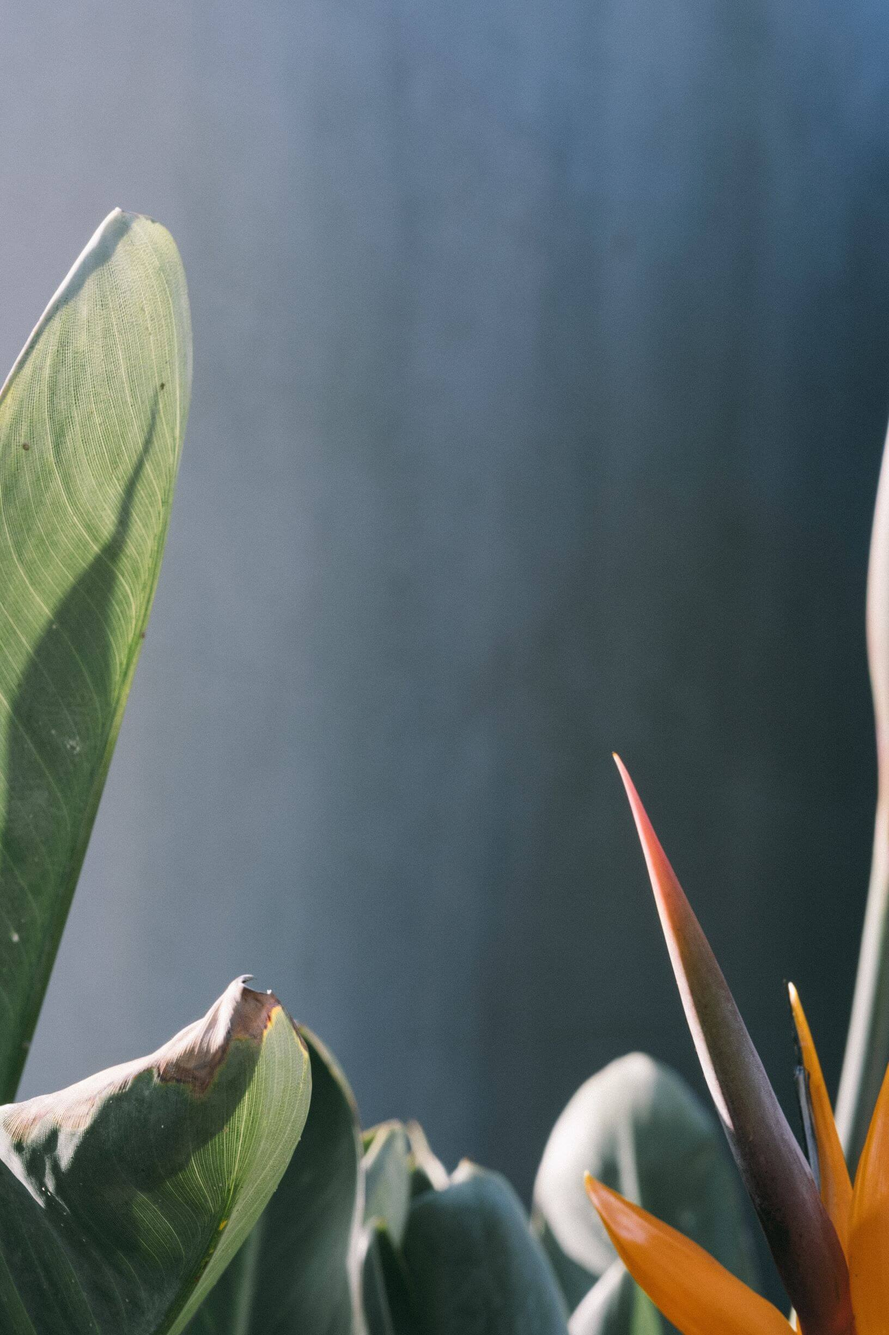
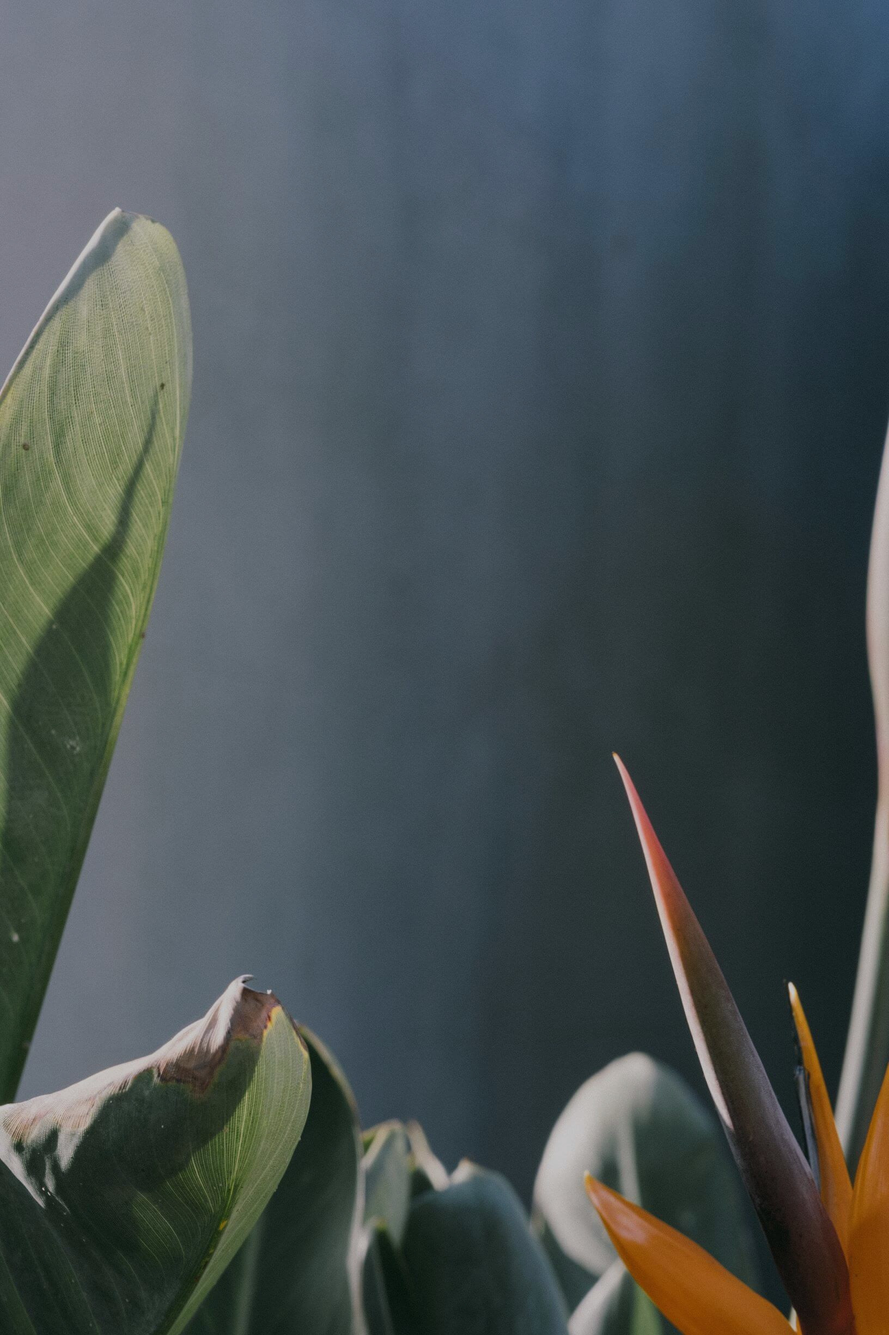
Changed pics for portfolio items, made some minor css changes

diff --git a/index.html b/index.html
@@ -26,9 +26,9 @@
       </button>
       <div class="collapse navbar-collapse" id="navbarResponsive">
         <ul class="nav navbar-nav ml-auto">
-          <li class="nav-item" role="presentation"><a class="nav-link js-scroll-trigger lang" href="#skills" name="skills">Skills</a></li>
+          <li class="nav-item" role="presentation"><a class="nav-link js-scroll-trigger lang" href="#skills" name="service">Services</a></li>
           <li class="nav-item" role="presentation"><a class="nav-link js-scroll-trigger lang" href="#about" name="about">About</a></li>
-          <li class="nav-item" role="presentation"><a class="nav-link js-scroll-trigger lang" href="#startProject" name="startProject">Write Me</a></li>
+          <li class="nav-item" role="presentation"><a class="nav-link js-scroll-trigger lang" href="#startProject" name="startProject">Work With Me</a></li>
           <li class="nav-item" role="presentation"><a class="nav-link js-scroll-trigger lang" href="#portfolio" name="portfolio">Portfolio</a></li>
           <li class="nav-item" role="presentation"><a class="nav-link js-scroll-trigger lang" href="#contact" name="contact">Contact</a></li>
           <li class="nav-item languageToggler activeLanguage" role="button"><a class="nav-link js-scroll-trigger translate" id="en">EN</a></li>
@@ -64,46 +64,39 @@
     <div class="container">
       <div class="row">
         <div class="col offset-lg-8 mx-auto text-center">
-          <h2 class="sectionHeading lang" name="skills">WHAT I DO</h2>
+          <h2 class="sectionHeading lang" name="service">WHAT I DO</h2>
           <hr class="my-4">
         </div>
         <div class="features-clean">
           <div class="container">
-            <div class="row features">
-              <div class="col-sm-6 col-lg-4 item"><i class="fab fa-html5 icon"></i>
-                <h3 class="mb-3" name="planning">HTML</h3>
-              </div>
-              <div class="col-sm-6 col-lg-4 item"><i class="fab fa-css3-alt icon"></i>
-                <h3 class="mb-3" name="design">CSS/SASS/Bootstrap</h3>
-                <p class="description">We will design a product that will reflect your personality and present your business in the most efficient way.</p>
-              </div>
-              <div class="col-sm-6 col-lg-4 item"><i class="fab fa-js-square icon"></i>
-                <h3 class="mb-3" name="development">JavaScript</h3>
-                <p class="description">Aenean tortor est, vulputate quis leo in, vehicula rhoncus lacus. Praesent aliquam in tellus eu gravida. Aliquam varius finibus est.</p>
-              </div>
-              <div class="col-sm-6 col-lg-4 item"><i class="fas fa-vector-square icon"></i>
-                <h3 class="mb-3" name="consulting">React.js</h3>
-                <p class="description">Aenean tortor est, vulputate quis leo in, vehicula rhoncus lacus. Praesent aliquam in tellus eu gravida. Aliquam varius finibus est.</p>
-              </div>
-              <div class="col-sm-6 col-lg-4 item"><i class="fab fa-github icon"></i>
-                <h3 class="mb-3" name="optimization">Git/Github/Gitlab</h3>
-                <p class="description">If you're not satisfied with your website's performance of how your app works, we are here to help</p>
-              </div>
-              <div class="col-sm-6 col-lg-4 item"><i class="far fa-file-code icon"></i>
-                <h3 class="mb-3" name="support">JSON, API</h3>
-                <p class="description">Aenean tortor est, vulputate quis leo in, vehicula rhoncus lacus. Praesent aliquam in tellus eu gravida. Aliquam varius finibus est.</p>
-              </div>
-              <div class="col-sm-6 col-lg-4 item"><i class="fab fa-figma icon"></i>
-                <h3 class="mb-3" name="support">Figma</h3>
-                <p class="description">Aenean tortor est, vulputate quis leo in, vehicula rhoncus lacus. Praesent aliquam in tellus eu gravida. Aliquam varius finibus est.</p>
-              </div>
-              <div class="col-sm-6 col-lg-4 item"><i class="fas fa-code icon"></i>
-                <h3 class="mb-3" name="support">SQL, UML</h3>
-                <p class="description">Aenean tortor est, vulputate quis leo in, vehicula rhoncus lacus. Praesent aliquam in tellus eu gravida. Aliquam varius finibus est.</p>
-              </div>
-              <div class="col-sm-6 col-lg-4 item"><i class="fab fa-wordpress-simple icon"></i>
-                <h3 class="mb-3" name="support">WordPress</h3>
-                <p class="description">Aenean tortor est, vulputate quis leo in, vehicula rhoncus lacus. Praesent aliquam in tellus eu gravida. Aliquam varius finibus est.</p>
+            <div class="features">
+              <div class="container">
+                <div class="row features mt-5">
+                  <div class="col-sm-6 col-lg-4 item"><i class="fas fa-pencil-ruler icon"></i>
+                    <h3 class="mb-3 lang" name="planning">Planning</h3>
+                    <p class="description lang" name="planningDescr">No matter how big your idea is, we will provide you the most optimal solutions for you. </p>
+                  </div>
+                  <div class="col-sm-6 col-lg-4 item"><i class="fas fa-paint-brush icon"></i>
+                    <h3 class="mb-3 lang" name="design">UI/UX Design</h3>
+                    <p class="description lang" name="designDescr">Landing Pages, User Flow, Wireframing, Prototyping, Mobile App Design, Web App</p>
+                  </div>
+                  <div class="col-sm-6 col-lg-4 item"><i class="far fa-file-code icon"></i>
+                    <h3 class="mb-3 lang" name="development">Development</h3>
+                    <p class="description lang" name="developmentDescr">HTML/CSS, JavaScript Animation, WordPress, Responsive Website</p>
+                  </div>
+                  <div class="col-sm-6 col-lg-4 item"><i class="fas fa-vector-square icon"></i>
+                    <h3 class="mb-3 lang" name="consulting">Consulting</h3>
+                    <p class="description lang" name="consultingDescr">We will help you</p>
+                  </div>
+                  <div class="col-sm-6 col-lg-4 item"><i class="fas fa-magic icon"></i>
+                    <h3 class="mb-3 lang" name="optimization">Optimization</h3>
+                    <p class="description lang" name="optimizDescr">If you're not satisfied with your website's performance of how your app works, we are here to help</p>
+                  </div>
+                  <div class="col-sm-6 col-lg-4 item"><i class="fas fa-hands-helping icon"></i>
+                    <h3 class="mb-3 lang" name="support">Mentoring</h3>
+                    <p class="description lang" name="supportDescr">Aenean tortor est, vulputate quis leo in, vehicula rhoncus lacus. Praesent aliquam in tellus eu gravida. Aliquam varius finibus est.</p>
+                  </div>
+                </div>
               </div>
             </div>
           </div>
@@ -222,7 +215,7 @@
     <div class="container">
       <div class="row">
         <div class="col-lg-12 text-center">
-          <h2 class="sectionHeading">PORTFOLIO</h2>
+          <h2 class="sectionHeading">PERSONAL PROJECTS</h2>
           <hr class="my-4">
         </div>
       </div>
@@ -236,9 +229,6 @@
           <div class="photo-details">
               <p>Lorem ipsum dolor sit amet, consectetur adipiscing elit. Cras sodales elementum mi non hendrerit. Proin tempor facilisis felis nec ultrices. Duis nec ultrices neque. Proin semper ultricies turpis, vel faucibus velit sodales vitae.
                   Class aptent taciti sociosqu ad litora torquent per conubia nostra, per inceptos himenaeos.&nbsp; </p>
-                <span class="badge bg-light text-dark mb-3">JavaScript</span>
-                <span class="badge bg-light text-dark mb-3">jQuery</span>
-                <span class="badge bg-light text-dark mb-3">Bootstrap 4</span>
               <div class="photo-tags">
                 <button class="btn  portfolioBtn  btn-xl">View Project</button>
               </div>
@@ -254,10 +244,6 @@
         <div class="photo-details">
             <p>Lorem ipsum dolor sit amet, consectetur adipiscing elit. Cras sodales elementum mi non hendrerit. Proin tempor facilisis felis nec ultrices. Duis nec ultrices neque. Proin semper ultricies turpis, vel faucibus velit sodales vitae.
                 Class aptent taciti sociosqu ad litora torquent per conubia nostra, per inceptos himenaeos.&nbsp; </p>
-                <span class="badge bg-light text-dark mb-4">React</span>
-                <span class="badge bg-light text-dark mb-4">React Material UI</span>
-                <span class="badge bg-light text-dark mb-4">Google API</span>
-                <span class="badge bg-light text-dark mb-4">JSON</span>
             <div class="photo-tags">
               <button class="btn  portfolioBtn btn-xl">View Project</button>
             </div>
@@ -267,14 +253,11 @@
 <div class="container mb-5">
   <div class="photo-card">
       <div class="photo-background" style="background-image:url('assets/img/oledo.jpg');">
-      <h2 class="sectionHeadingWhite">OLEDO Website</h2>
+      <h2 class="sectionHeadingWhite">OLEDO</h2>
             <h3 class="sectionSubHeadWhite">LED Mirrors and Screens</h3></div>
       <div class="photo-details">
           <p>Lorem ipsum dolor sit amet, consectetur adipiscing elit. Cras sodales elementum mi non hendrerit. Proin tempor facilisis felis nec ultrices. Duis nec ultrices neque. Proin semper ultricies turpis, vel faucibus velit sodales vitae.
               Class aptent taciti sociosqu ad litora torquent per conubia nostra, per inceptos himenaeos.&nbsp; </p>
-            <span class="badge bg-light text-dark mb-4">JavaScript</span>
-            <span class="badge bg-light text-dark mb-4">Figma</span>
-            <span class="badge bg-light text-dark mb-4">Bootstrap 4</span>
           <div class="photo-tags">
             <button class="btn  portfolioBtn  btn-xl">View Project</button>
           </div>
@@ -304,6 +287,51 @@
       </div>
     </div>
   </section>
+  <footer>
+    <div class="d-flex flex-row bd-highlight">
+      <a class="p-2 lang" name="imprintText" data-toggle="modal" data-target="#modalImpressum">Imprint<a>
+    </div>
+    <div id="cookieConsent">
+      This website is using cookies. <a data-toggle="modal" data-target="#modalCookie">More info</a>. <a class="cookieConsentOK">Got it</a>
+    </div>
+    <!-- Modal Impressum -->
+    <div class="modal fade" id="modalImpressum" tabindex="-1" role="dialog" aria-labelledby="exampleModalCenterTitle" aria-hidden="true">
+      <div class="modal-dialog modal-dialog-centered" role="document">
+        <div class="modal-content">
+          <div class="modal-header">
+            <h4 class="modal-title" id="exampleModalCenterTitle">Impressum</h4>
+            <button type="button" class="close" data-dismiss="modal" aria-label="Close">
+              <span aria-hidden="true">&times;</span>
+            </button>
+          </div>
+          <div class="modal-body" style="background-image:url('assets/img/impressum.png');">
+          </div>
+          <div class="modal-footer">
+            <button type="button" class="btn btn-primary btn-xl" data-dismiss="modal">Close</button>
+          </div>
+        </div>
+      </div>
+    </div>
+    <!-- Modal Cookie warning-->
+    <div class="modal fade" id="modalCookie" tabindex="-1" role="dialog" aria-labelledby="exampleModalCenterTitle" aria-hidden="true">
+      <div class="modal-dialog modal-dialog-centered" role="document">
+        <div class="modal-content">
+          <div class="modal-header">
+            <h4 class="modal-title" id="exampleModalCenterTitle">Modal title</h4>
+            <button type="button" class="close" data-dismiss="modal" aria-label="Close">
+              <span aria-hidden="true">&times;</span>
+            </button>
+          </div>
+          <div class="modal-body">
+            ...
+          </div>
+          <div class="modal-footer">
+            <button type="button" class="btn btn-primary btn-xl" data-dismiss="modal">Close</button>
+          </div>
+        </div>
+      </div>
+    </div>
+  </footer>
   <script src="assets/js/jquery.min.js"></script>
   <script src="assets/bootstrap/js/bootstrap.min.js"></script>
   <script src="assets/js/bs-init.js"></script>

diff --git a/assets/js/lang.js b/assets/js/lang.js
@@ -3,29 +3,27 @@
 let arrLang = {
   'en': {
     'services': 'Services',
-    'values': 'Values',
-    'startProject': 'Start a Project',
-    'aboutUs': 'About',
+    'about': 'About',
+    'startProject': 'Work With Me',
     'contact': 'Contact',
     'mainText': 'Web Developer and UI Designer',
     'subText':'Hi, I\'m Solya',
     'ourServices': 'OUR SERVICES',
-    'planning': 'HTML',
-    'design': 'CSS/SASS',
-    'development': 'JavaScript',
-    'consulting': 'React.js',
+    'planning': 'Planning',
+    'design': 'UI Design',
+    'development': 'Development',
+    'consulting': 'Consulting',
     'optimization': 'Optimization',
     'support': 'Support'
 
   },
   'de': {
     'services': 'Services',
-    'values': 'Werte',
+    'about': 'Über Mich',
     'startProject':'Project starten',
-    'aboutUs':'Über Uns',
     'contact': 'Kontakt',
-    'mainText':'Digitale Agentur der näсhsten Stufe',
-    'subText':'Design. Entwicklung. Beratung',
+    'mainText':'Webentwicklerin und Designerin',
+    'subText':'Hallo, ich bin Solya',
     'ourServices': 'UNSERE SERVICES',
     'planning': 'Plannung',
     'design': 'Design',

diff --git a/assets/bootstrap/css/bootstrap.min.css b/assets/bootstrap/css/bootstrap.min.css
@@ -551,7 +551,7 @@ pre code {
 }
 
 .container-fluid, .container-lg, .container-md, .container-sm, .container-xl {
-  width: 95%;
+  width: 100%;
   padding-right: 15px;
   padding-left: 15px;
   margin-right: auto;

diff --git a/assets/bootstrap/css/dh-card-image-left-dark.css b/assets/bootstrap/css/dh-card-image-left-dark.css
@@ -93,5 +93,6 @@
 
 .photo-details p {
   color: rgb(5, 5, 5);
+  font-size: 18px;
 }
 
